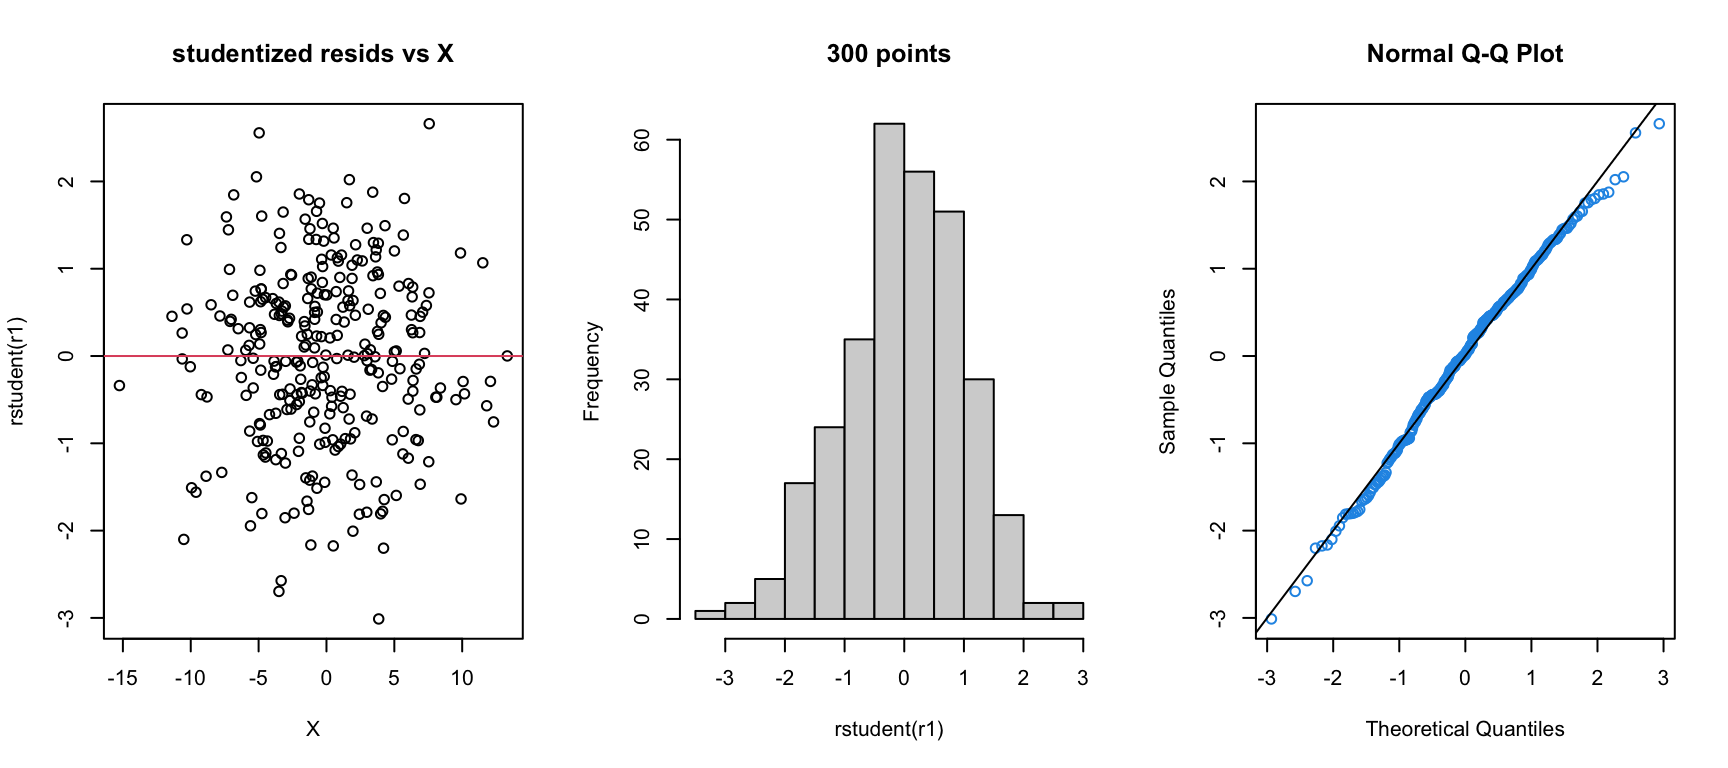
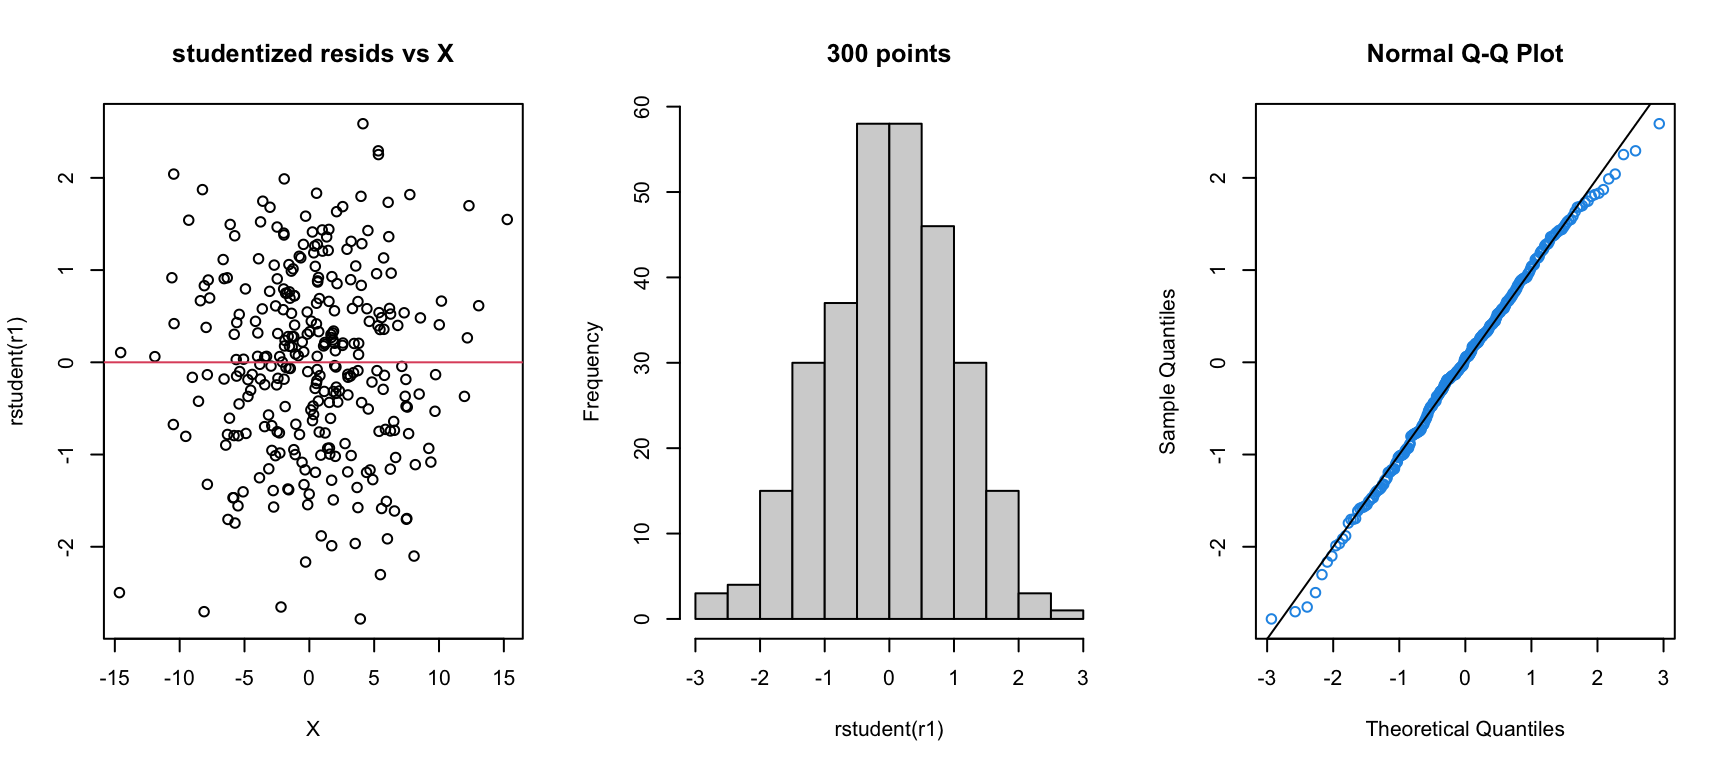
added the draft schedule and corrected a typo

diff --git a/docs/schedule2024.html b/docs/schedule2024.html
@@ -6,7 +6,7 @@
 
 <meta name="viewport" content="width=device-width, initial-scale=1.0, user-scalable=yes">
 
-<meta name="description" content="Schedule for synchronous training sessions">
+<meta name="description" content="Draft schedule for synchronous training sessions">
 
 <title>VectorByte Training 2024 - 2024 Training Schedule</title>
 <style>
@@ -133,9 +133,9 @@ ul.task-list li input[type="checkbox"] {
   <ul>
   <li><a href="#pre-workshop" id="toc-pre-workshop" class="nav-link active" data-scroll-target="#pre-workshop">Pre-workshop</a></li>
   <li><a href="#july-2024" id="toc-july-2024" class="nav-link" data-scroll-target="#july-2024">22 July 2024</a></li>
-  <li><a href="#july-2024-0830---1700" id="toc-july-2024-0830---1700" class="nav-link" data-scroll-target="#july-2024-0830---1700">23 July 2024 (08:30 - 17:00)</a></li>
-  <li><a href="#july-2024-0830---1700-1" id="toc-july-2024-0830---1700-1" class="nav-link" data-scroll-target="#july-2024-0830---1700-1">24 July 2024 (08:30 - 17:00)</a></li>
-  <li><a href="#july-2024-0830---1700-2" id="toc-july-2024-0830---1700-2" class="nav-link" data-scroll-target="#july-2024-0830---1700-2">25 July 2024 (08:30 - 17:00)</a></li>
+  <li><a href="#july-2024-0830---1730" id="toc-july-2024-0830---1730" class="nav-link" data-scroll-target="#july-2024-0830---1730">23 July 2024 (08:30 - 17:30)</a></li>
+  <li><a href="#july-2024-0830---1730-1" id="toc-july-2024-0830---1730-1" class="nav-link" data-scroll-target="#july-2024-0830---1730-1">24 July 2024 (08:30 - 17:30)</a></li>
+  <li><a href="#july-2024-0830---1730-2" id="toc-july-2024-0830---1730-2" class="nav-link" data-scroll-target="#july-2024-0830---1730-2">25 July 2024 (08:30 - 17:30)</a></li>
   <li><a href="#july-2024-1" id="toc-july-2024-1" class="nav-link" data-scroll-target="#july-2024-1">26 July 2024</a></li>
   <li><a href="#post-workshop" id="toc-post-workshop" class="nav-link" data-scroll-target="#post-workshop">Post-workshop</a></li>
   </ul>
@@ -155,7 +155,7 @@ ul.task-list li input[type="checkbox"] {
 
 <div>
   <div class="description">
-    Schedule for synchronous training sessions
+    Draft schedule for synchronous training sessions
   </div>
 </div>
 
@@ -198,13 +198,13 @@ ul.task-list li input[type="checkbox"] {
 </table>
 <p><br> <br> <br></p>
 </section>
-<section id="july-2024-0830---1700" class="level1">
-<h1>23 July 2024 (08:30 - 17:00)</h1>
+<section id="july-2024-0830---1730" class="level1">
+<h1>23 July 2024 (08:30 - 17:30)</h1>
 <table class="table">
 <colgroup>
-<col style="width: 19%">
-<col style="width: 31%">
-<col style="width: 48%">
+<col style="width: 27%">
+<col style="width: 34%">
+<col style="width: 37%">
 </colgroup>
 <thead>
 <tr class="header">
@@ -215,26 +215,66 @@ ul.task-list li input[type="checkbox"] {
 </thead>
 <tbody>
 <tr class="odd">
-<td></td>
-<td>Coming Soon!</td>
+<td>8:30</td>
+<td>Introduction to time dependent data, course overview</td>
 <td></td>
 </tr>
 <tr class="even">
-<td>12:00</td>
+<td>9:30</td>
+<td>Goal setting, lighting presentations</td>
+<td></td>
+</tr>
+<tr class="odd">
+<td>10:15</td>
+<td>Break</td>
+<td></td>
+</tr>
+<tr class="even">
+<td>10:45</td>
+<td>Lecture: Regression Transformations and Diagnostics</td>
+<td></td>
+</tr>
+<tr class="odd">
+<td>11:45</td>
+<td>Practical: Regression Transformations and Diagnostics</td>
+<td></td>
+</tr>
+<tr class="even">
+<td>12:30</td>
 <td>Lunch</td>
+<td></td>
+</tr>
+<tr class="odd">
+<td>13:30</td>
+<td>Lecture: Time Dependent Data Analysis</td>
+<td></td>
+</tr>
+<tr class="even">
+<td>14:30</td>
+<td>Practical: Time Dependent Data Analysis</td>
+<td></td>
+</tr>
+<tr class="odd">
+<td>15:15</td>
+<td>Break</td>
+<td></td>
+</tr>
+<tr class="even">
+<td>15:30</td>
+<td>Integrated Lecture and Practical: Basics of Time Series method</td>
 <td></td>
 </tr>
 </tbody>
 </table>
 <p><br> <br> <br></p>
 </section>
-<section id="july-2024-0830---1700-1" class="level1">
-<h1>24 July 2024 (08:30 - 17:00)</h1>
+<section id="july-2024-0830---1730-1" class="level1">
+<h1>24 July 2024 (08:30 - 17:30)</h1>
 <table class="table">
 <colgroup>
-<col style="width: 19%">
-<col style="width: 23%">
-<col style="width: 56%">
+<col style="width: 27%">
+<col style="width: 34%">
+<col style="width: 37%">
 </colgroup>
 <thead>
 <tr class="header">
@@ -245,46 +285,133 @@ ul.task-list li input[type="checkbox"] {
 </thead>
 <tbody>
 <tr class="odd">
-<td></td>
-<td>Coming Soon!</td>
+<td>8:30</td>
+<td>Overview of the day</td>
 <td></td>
 </tr>
 <tr class="even">
-<td></td>
-<td></td>
+<td>9:00</td>
+<td>Introduction to VecDyn Database and API</td>
 <td></td>
 </tr>
 <tr class="odd">
-<td>12:00</td>
+<td>10:00</td>
+<td>Break</td>
+<td></td>
+</tr>
+<tr class="even">
+<td>10:30</td>
+<td>Working with VecDyn/time dependent data (data aggregation, covariate/predictor sources)</td>
+<td></td>
+</tr>
+<tr class="odd">
+<td>12:30</td>
 <td>Lunch</td>
 <td></td>
 </tr>
 <tr class="even">
+<td>13:30</td>
+<td>Lecture: Introduction to Gaussian Process (GP) regression applied to time dependent data</td>
 <td></td>
+</tr>
+<tr class="odd">
+<td>14:45</td>
+<td>Break</td>
 <td></td>
+</tr>
+<tr class="even">
+<td>15:15</td>
+<td>Practical: GPs in R with <code>laGP</code> and <code>hetGP</code></td>
+<td></td>
+</tr>
+<tr class="odd">
+<td>16:30</td>
+<td>Brainstorming planning for projects</td>
+<td></td>
+</tr>
+<tr class="even">
+<td>17:00</td>
+<td>Lightning talks</td>
 <td></td>
 </tr>
 </tbody>
 </table>
+<p><br> <br> <br></p>
 </section>
-<section id="july-2024-0830---1700-2" class="level1">
-<h1>25 July 2024 (08:30 - 17:00)</h1>
+<section id="july-2024-0830---1730-2" class="level1">
+<h1>25 July 2024 (08:30 - 17:30)</h1>
 <table class="table">
+<colgroup>
+<col style="width: 15%">
+<col style="width: 62%">
+<col style="width: 21%">
+</colgroup>
 <thead>
 <tr class="header">
-<th>Time</th>
+<th>Time.</th>
 <th>Activity</th>
 <th>Materials</th>
 </tr>
 </thead>
 <tbody>
 <tr class="odd">
+<td>8:30</td>
+<td>Overview of the day</td>
 <td></td>
-<td>Coming Soon!</td>
+</tr>
+<tr class="even">
+<td>9:00</td>
+<td>Forecasting metrics and challenge introduction</td>
+<td></td>
+</tr>
+<tr class="odd">
+<td>9:30</td>
+<td>Forecasting Challenge</td>
+<td></td>
+</tr>
+<tr class="even">
+<td>10:30</td>
+<td>Break</td>
+<td></td>
+</tr>
+<tr class="odd">
+<td>11:00</td>
+<td>Forecasting Challenge (cont)</td>
+<td></td>
+</tr>
+<tr class="even">
+<td>11:45</td>
+<td>Present and Eval forecasts</td>
+<td></td>
+</tr>
+<tr class="odd">
+<td>12:30</td>
+<td>Lunch</td>
+<td></td>
+</tr>
+<tr class="even">
+<td>13:30</td>
+<td>Mini projects</td>
+<td></td>
+</tr>
+<tr class="odd">
+<td>15:00</td>
+<td>Break</td>
+<td></td>
+</tr>
+<tr class="even">
+<td>15:30</td>
+<td>Mini projects</td>
+<td></td>
+</tr>
+<tr class="odd">
+<td>16:30</td>
+<td>Present mini projects; wrap up</td>
 <td></td>
 </tr>
 </tbody>
 </table>
+<p><br> <br> <br></p>
 </section>
 <section id="july-2024-1" class="level1">
 <h1>26 July 2024</h1>

diff --git a/docs/Stats_review.html b/docs/Stats_review.html
@@ -340,7 +340,7 @@ window.Quarto = {
 <li>discrete (numbers of items or successes)</li>
 <li>continuous (heights, times, weights)</li>
 </ul>
-<p>We usually use capital letters – e.g.&nbsp;<span class="math inline">X</span>, <span class="math inline">Y</span>, sometimes with bold or with subscripts – to denote the RVs. In contrast we use lower case letters, e.g.&nbsp;<span class="math inline">x</span>, <span class="math inline">y</span>, <span class="math inline">k</span>, to denote the values that the RV takes. For instance, lets say that the heights of the woman at Virginia Tech are the RV, <span class="math inline">X</span>, and <span class="math inline">X</span> has a normal distribution with mean 62 inches and variance 6<span class="math inline">^2</span>, i.e., <span class="math inline">X \sim \mathrm{N}(62,6^2)</span> distribution. Say we then observe the heights of 3 individuals drawn from this distribution – we would write this as: <span class="math inline">x=(</span> 60.6, 68.6, 60.6 <span class="math inline">)</span>.</p>
+<p>We usually use capital letters – e.g.&nbsp;<span class="math inline">X</span>, <span class="math inline">Y</span>, sometimes with bold or with subscripts – to denote the RVs. In contrast we use lower case letters, e.g.&nbsp;<span class="math inline">x</span>, <span class="math inline">y</span>, <span class="math inline">k</span>, to denote the values that the RV takes. For instance, lets say that the heights of the woman at Virginia Tech are the RV, <span class="math inline">X</span>, and <span class="math inline">X</span> has a normal distribution with mean 62 inches and variance 6<span class="math inline">^2</span>, i.e., <span class="math inline">X \sim \mathrm{N}(62,6^2)</span> distribution. Say we then observe the heights of 3 individuals drawn from this distribution – we would write this as: <span class="math inline">x=(</span> 64.5, 64, 60.1 <span class="math inline">)</span>.</p>
 <p><br> <br> </p>
 </section>
 <section id="probability-distributions" class="level1">
@@ -564,7 +564,7 @@ f(x)=\frac{1}{\sqrt{2\pi\sigma^2}}\exp{\left(-\frac{(x-\mu)^2}{2\sigma^2}\right)
 <div class="cell">
 <div class="sourceCode cell-code" id="cb3"><pre class="sourceCode r code-with-copy"><code class="sourceCode r"><span id="cb3-1"><a href="#cb3-1" aria-hidden="true" tabindex="-1"></a><span class="fu">rnorm</span>(<span class="dv">3</span>, <span class="at">mean=</span><span class="dv">0</span>, <span class="at">sd=</span><span class="dv">1</span>) <span class="do">## random draws</span></span></code><button title="Copy to Clipboard" class="code-copy-button"><i class="bi"></i></button></pre></div>
 <div class="cell-output cell-output-stdout">
-<pre><code>[1] -0.8433635  0.3151217 -0.4799710</code></pre>
+<pre><code>[1] -1.3733147 -0.5293865  0.9294630</code></pre>
 </div>
 </div>
 <div class="cell">

diff --git a/docs/materials.html b/docs/materials.html
@@ -178,7 +178,7 @@ ul.task-list li input[type="checkbox"] {
 <section id="hardware-and-software" class="level2">
 <h2 class="anchored" data-anchor-id="hardware-and-software">Hardware and Software</h2>
 <p>We will be using <a href="https://cran.r-project.org/"><code>R</code></a> for all data manipulation and analyses/model fitting. Any operating system (Windows, Mac, Linux) will do, as long as you have <code>R</code> (version 3.6 or higher) installed.</p>
-<p>You may use any IDE/ GUI for <code>R</code> (VScode, RStudio, Emacs, etc). For most people, <a href="https://www.rstudio.com/"><code>RStudio</code></a> is a good option. Whichever one you decide to use, please make sure it is installed and test it before the workshop.</p>
+<p>You may use any IDE/ GUI for <code>R</code> (VScode, RStudio, Emacs, etc). For most people, <a href="https://www.rstudio.com/"><code>RStudio</code></a> is a good option. Whichever one you decide to use, please make sure it is installed and tested before the workshop.</p>
 <p>We will also be using Slack for additional support during the training. Please have these installed in advance. We will have a channel on Slack dedicated to software/hardware issues and troubleshooting.</p>
 </section>
 <section id="pre-requisites" class="level2">

diff --git a/docs/materials_temp.html b/docs/materials_temp.html
@@ -178,7 +178,7 @@ ul.task-list li input[type="checkbox"] {
 <section id="hardware-and-software" class="level2">
 <h2 class="anchored" data-anchor-id="hardware-and-software">Hardware and Software</h2>
 <p>We will be using <a href="https://cran.r-project.org/"><code>R</code></a> for all data manipulation and analyses/model fitting. Any operating system (Windows, Mac, Linux) will do, as long as you have <code>R</code> (version 3.6 or higher) installed.</p>
-<p>You may use any IDE/ GUI for <code>R</code> (VScode, RStudio, Emacs, etc). For most people, <a href="https://www.rstudio.com/"><code>RStudio</code></a> is a good option. Whichever one you decide to use, please make sure it is installed and test it before the workshop.</p>
+<p>You may use any IDE/ GUI for <code>R</code> (VScode, RStudio, Emacs, etc). For most people, <a href="https://www.rstudio.com/"><code>RStudio</code></a> is a good option. Whichever one you decide to use, please make sure it is installed and tested before the workshop.</p>
 <p>We will also be using Slack for additional support during the training. Please have these installed in advance. We will have a channel on Slack dedicated to software/hardware issues and troubleshooting.</p>
 </section>
 <section id="pre-requisites" class="level2">
